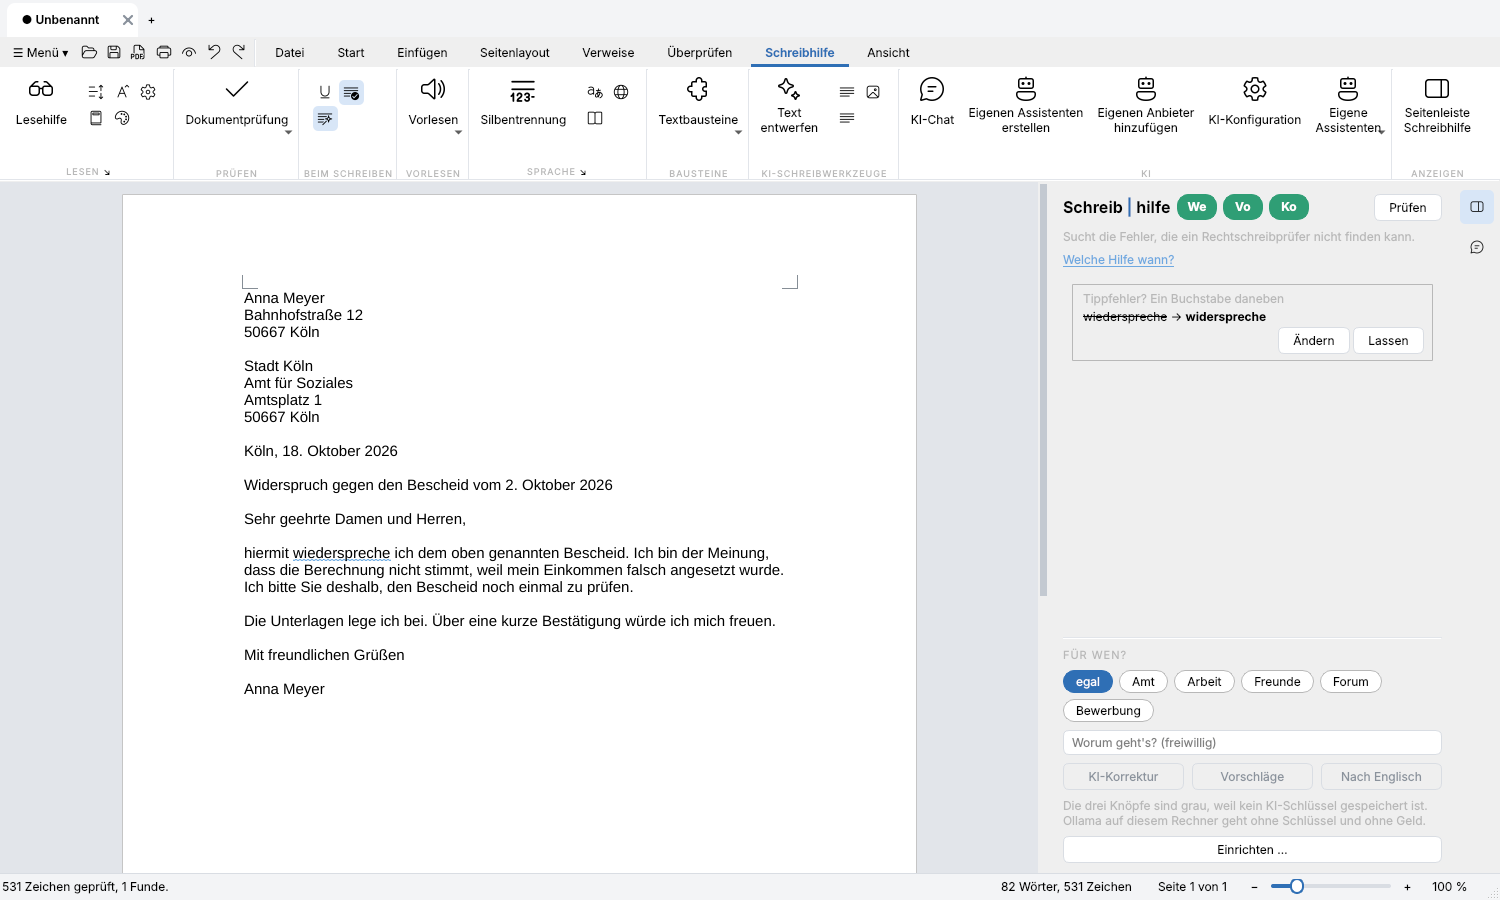
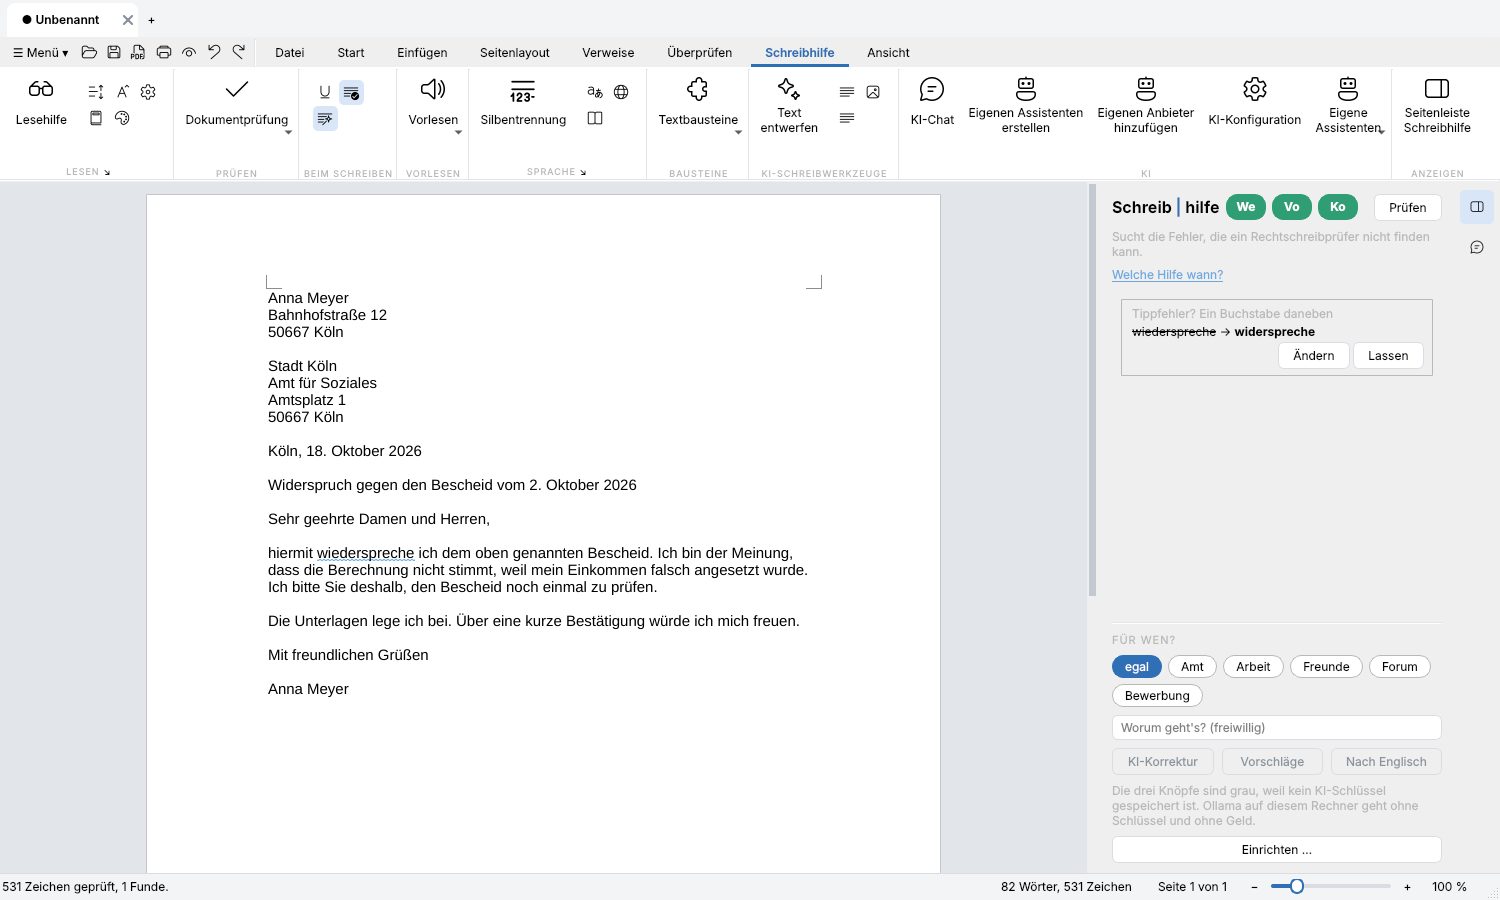
Bildschirmfotos: Thema vor dem Fenster setzen, damit die Symbole die richtige Farbe haben (Spalten-Bild hatte blasse Symbole); Bilder neu erzeugt
Claude-Session: https://claude.ai/code/session_016D74conPEqMaSeCxiwDhWx

diff --git a/werkzeug/bildschirmfotos.py b/werkzeug/bildschirmfotos.py
@@ -20,6 +20,7 @@ from lunivo_writer.services.settings_service import Settings  # noqa: E402
 from lunivo_writer.ui.dialogs.optionen import OptionenDialog  # noqa: E402
 from lunivo_writer.ui.main_window import MainWindow  # noqa: E402
 from lunivo_writer.ui.theme import apply_theme  # noqa: E402
+from lunivo_writer.ui.widgets import icons  # noqa: E402
 
 BRIEF = """Anna Meyer
 Bahnhofstraße 12
@@ -57,8 +58,9 @@ def warte(ms):
 
 def fenster(app, theme, text=BRIEF, groesse=(1500, 900)):
     ini = os.path.join(tempfile.mkdtemp(), "s.ini")
+    apply_theme(app, theme)                   # zuerst das Thema, dann das Fenster: Die Symbole übernehmen die Farben beim Bauen
+    icons.leeren()
     w = MainWindow(Settings(QSettings(ini, QSettings.IniFormat)))
-    apply_theme(app, theme)
     w.resize(*groesse)
     w.show()
     w.new_document()
